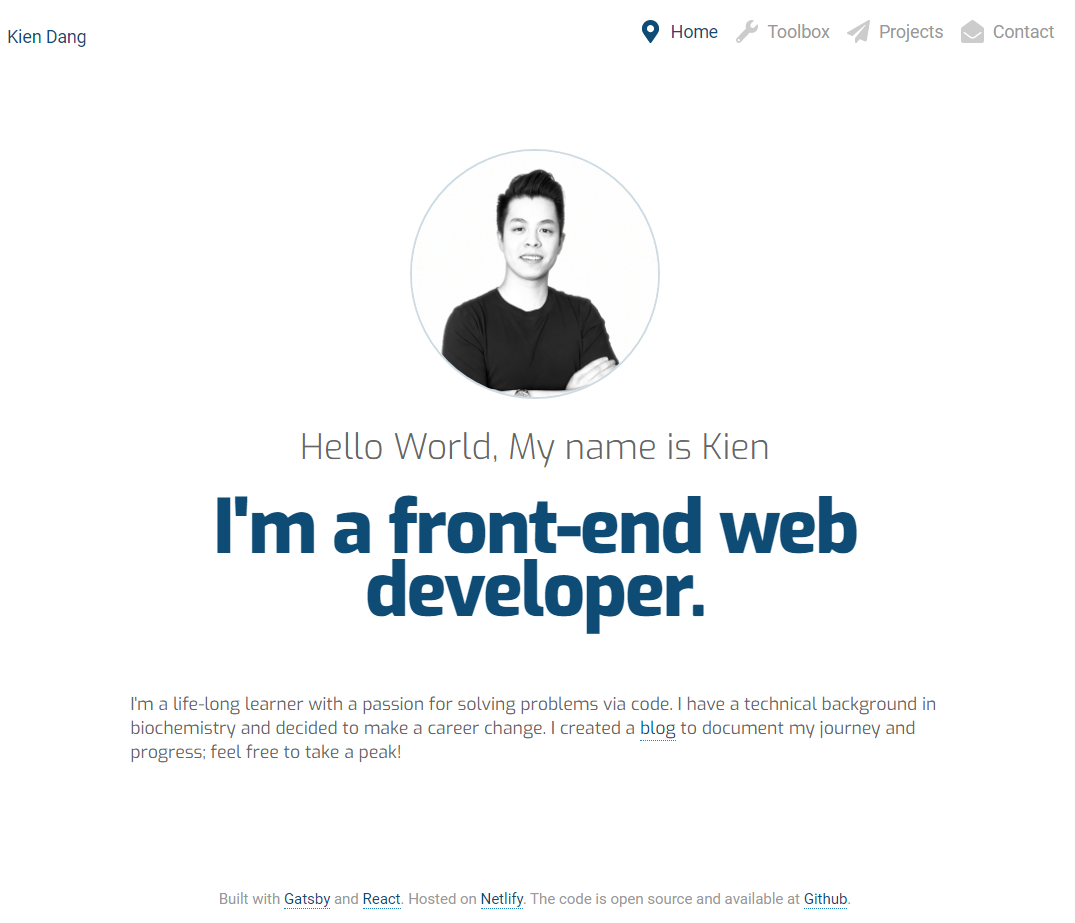
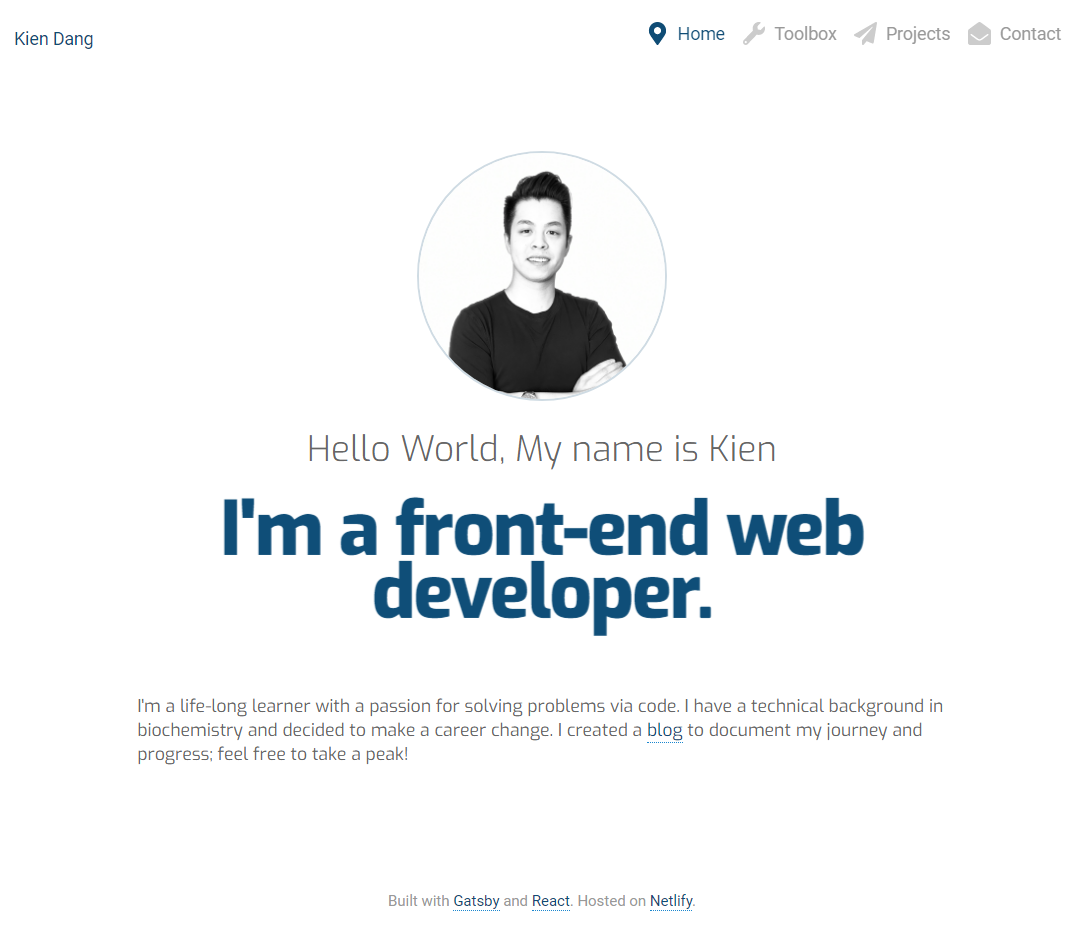
editing readme

diff --git a/src/components/MainFooter.jsx b/src/components/MainFooter.jsx
@@ -24,14 +24,6 @@ const MainFooter = () => (
       >
         Netlify
       </a>
-      . The code is open source and available at{" "}
-      <a
-        href="https://github.com/kxdang/Kien-portfolio-v1"
-        target="_blank"
-        rel="noopener noreferrer"
-      >
-        Github
-      </a>
       .
     </p>
   </div>
